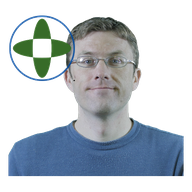
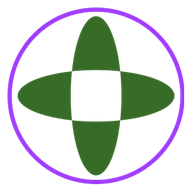
Use the four-lobe Flight Enabled mark only — no headshot, transparent outside the ring

diff --git a/index.html b/index.html
@@ -9,10 +9,10 @@ layout: null
   <title>Flight Enabled — Bringing flight to everyone</title>
   <meta name="description" content="A shop in Murray, Utah — not an airline. Skeleton drone on the bench, hardware inbound, looking for a Salt Lake valley test site. Parent of Still Has Value and Similarize.">
   <link rel="canonical" href="https://www.flightenabled.com/">
-  <link rel="icon" href="icon.svg" type="image/svg+xml">
-  <link rel="icon" href="icon-32.png" type="image/png" sizes="32x32">
-  <link rel="apple-touch-icon" href="apple-touch-icon.png">
-  <link rel="manifest" href="manifest.webmanifest">
+  <link rel="icon" href="icon.svg?v=20260901c" type="image/svg+xml">
+  <link rel="icon" href="icon-32.png?v=20260901c" type="image/png" sizes="32x32">
+  <link rel="apple-touch-icon" href="apple-touch-icon.png?v=20260901c">
+  <link rel="manifest" href="manifest.webmanifest?v=20260901c">
   <meta name="theme-color" content="#05070c">
   <meta property="og:type" content="website">
   <meta property="og:url" content="https://www.flightenabled.com/">
